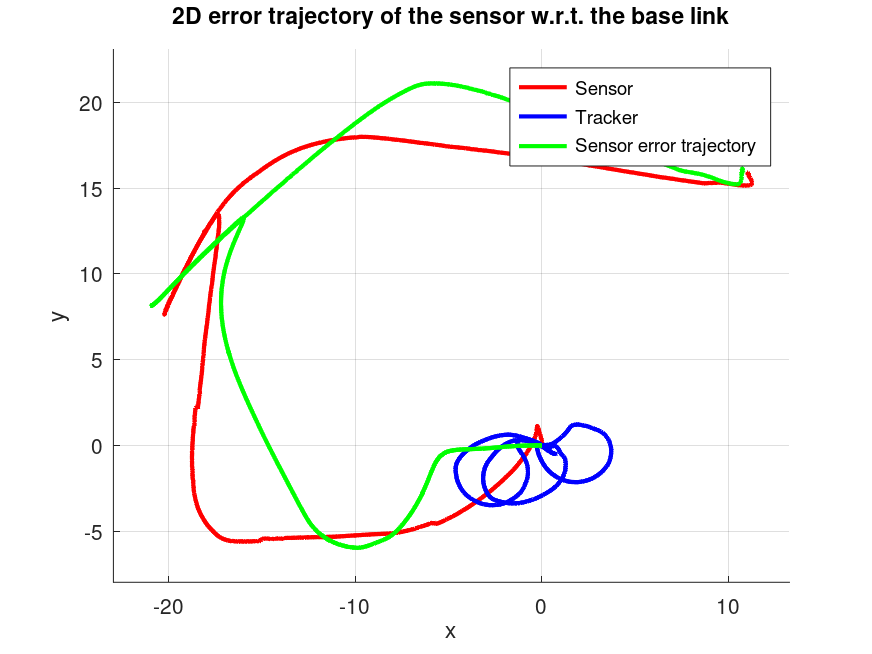
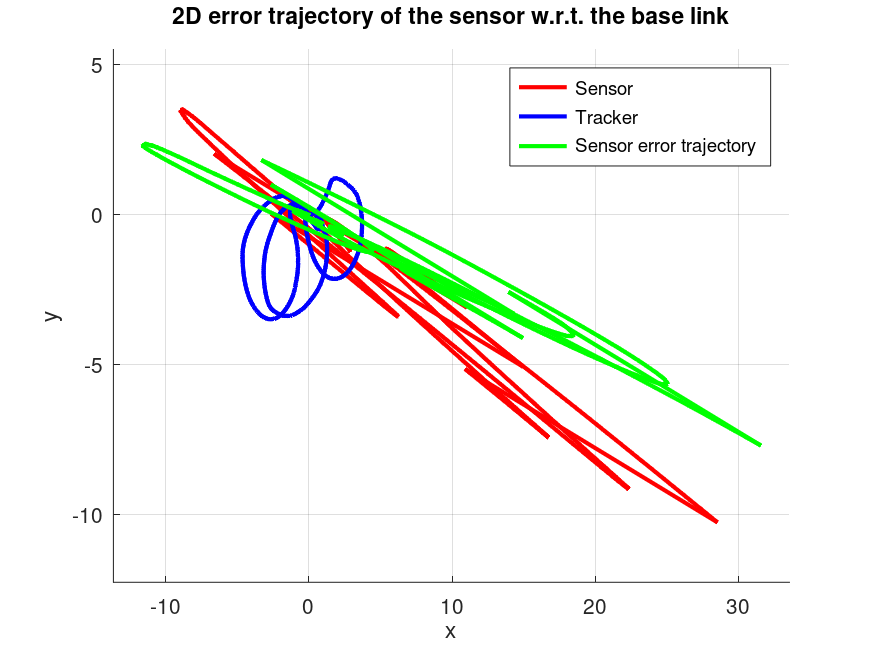
Updated 2D position of the sensor w.r.t. the base link

diff --git a/calibration/calibration.m b/calibration/calibration.m
@@ -1,4 +1,5 @@
 
+%{
 function R = rotation(theta)
   s = sin(theta);
   c = cos(theta);
@@ -27,6 +28,50 @@ function pose_sensor = position_sensor(model_pose, tracker_pose)
 
   end
 endfunction
+%}
+
+function pose_sensor = sensor_pose_correction(pose_s, Z_sensor);
+	pose_sensor = zeros(size(Z_sensor, 1), 3);
+
+	for i=1:size(Z_sensor, 1),
+		u = Z_sensor(i,1:3)';
+		uc = pose_s*u;
+		pose_sensor(i,:) = uc;
+	end
+
+end
+
+function pose_sensor = position_sensor(Z)
+	H = zeros(9, 9);
+	b = zeros(9, 1);
+	pose_sensor = eye(3); 
+
+	for i = 1:size(Z, 1),
+		error_sensor = error_pose_sensor(i, pose_sensor, Z);
+		J = jacobian_sensor(i, Z);
+		H = H + J'*J;
+		b = b + J'*error_sensor;
+	end
+
+	delta_sensor = -H\b;
+	d_sensor = reshape(delta_sensor, 3, 3)';
+	pose_sensor = pose_sensor + d_sensor;
+end
+
+function error_sensor = error_pose_sensor(i, pose_sensor, Z)
+	ustar = Z(i,1:3)';
+	u = Z(i,4:6)';
+	error_sensor = ustar - pose_sensor*u;
+end
+
+function J = jacobian_sensor(i, Z)
+	u = Z(i, 4:6);
+	J = zeros(3,9);
+
+	J(1, 1:3)= -u;
+	J(2, 4:6)= -u;
+	J(3, 7:9)= -u;
+end
 
 function plot_sensor_trajectory(pose_sensor, model_pose, tracker_pose, moving, h, time)
   hold on;
@@ -171,6 +216,7 @@ function ksteeer_ktraction_calibrated = ksteeer_ktraction_calibration(Ksteer_Ktr
   drawnow;
   saveas(h, name_file);
   waitfor(h);
+  pause(1);
 
   name_file = "./output/Ktraction_calibration_errors.png";
   if exist(name_file, "file")
@@ -189,6 +235,7 @@ function ksteeer_ktraction_calibrated = ksteeer_ktraction_calibration(Ksteer_Ktr
   drawnow;
   saveas(h, name_file);
   waitfor(h);
+  pause(1);
 
 	delta_Ksteer_Ktraction = -H\b;
   d_Ksteer_Ktraction = reshape(delta_Ksteer_Ktraction, 2, 2)';
@@ -268,6 +315,7 @@ function axis_length_steer_offset_calibrated = axis_length_steer_offset_calibrat
   drawnow;
   saveas(h, name_file);
   waitfor(h);
+  pause(1);
 
   name_file = "./output/Steer_offset_calibration_errors.png";
   if exist(name_file, "file")
@@ -286,6 +334,7 @@ function axis_length_steer_offset_calibrated = axis_length_steer_offset_calibrat
   drawnow;
   saveas(h, name_file);
   waitfor(h);
+  pause(1);
 
 	delta_axis_length_steer_offset = -H\b;
   d_axis_length_steer_offset = reshape(delta_axis_length_steer_offset, 2, 2)';

diff --git a/main.m b/main.m
@@ -36,19 +36,36 @@ tracker_pose = [Z{7}, Z{8}, Z{9}];
 
 disp('Dataset loaded');
 
+%{
 %2D position of the sensor w.r.t. the base link
 pose_sensor = position_sensor(model_pose, tracker_pose);
 
 disp("2D position of the sensor w.r.t. the base link:");
 disp(pose_sensor);
+pause(1);
+%}
+
+Z_sensor = [model_pose, tracker_pose];
+pose_s = position_sensor(Z_sensor);
+disp(pose_s);
+pause(1);
+
+disp('Calibrated sensor position');
+pose_sensor = sensor_pose_correction(pose_s, Z_sensor(:,4:6));
+
+disp("2D position of the sensor w.r.t. the base link:");
+disp(pose_sensor);
+pause(1);
 
 #2D trajectory of the sensor w.r.t. the base link
 disp('2D trajectory of the sensor w.r.t. the base link');
 plot_sensor_trajectory(pose_sensor, model_pose, tracker_pose, moving, h, time);
+pause(1);
 
 #2D error trajectory of the sensor w.r.t. the base link
 disp('2D error trajectory of the sensor w.r.t. the base link');
 plot_sensor_error(pose_sensor, tracker_pose, moving, h, time);
+pause(1);
 
 #The kinematic parameters: Ksteer and Ktraction
 disp('Calibration of: Ksteer and Ktraction');
